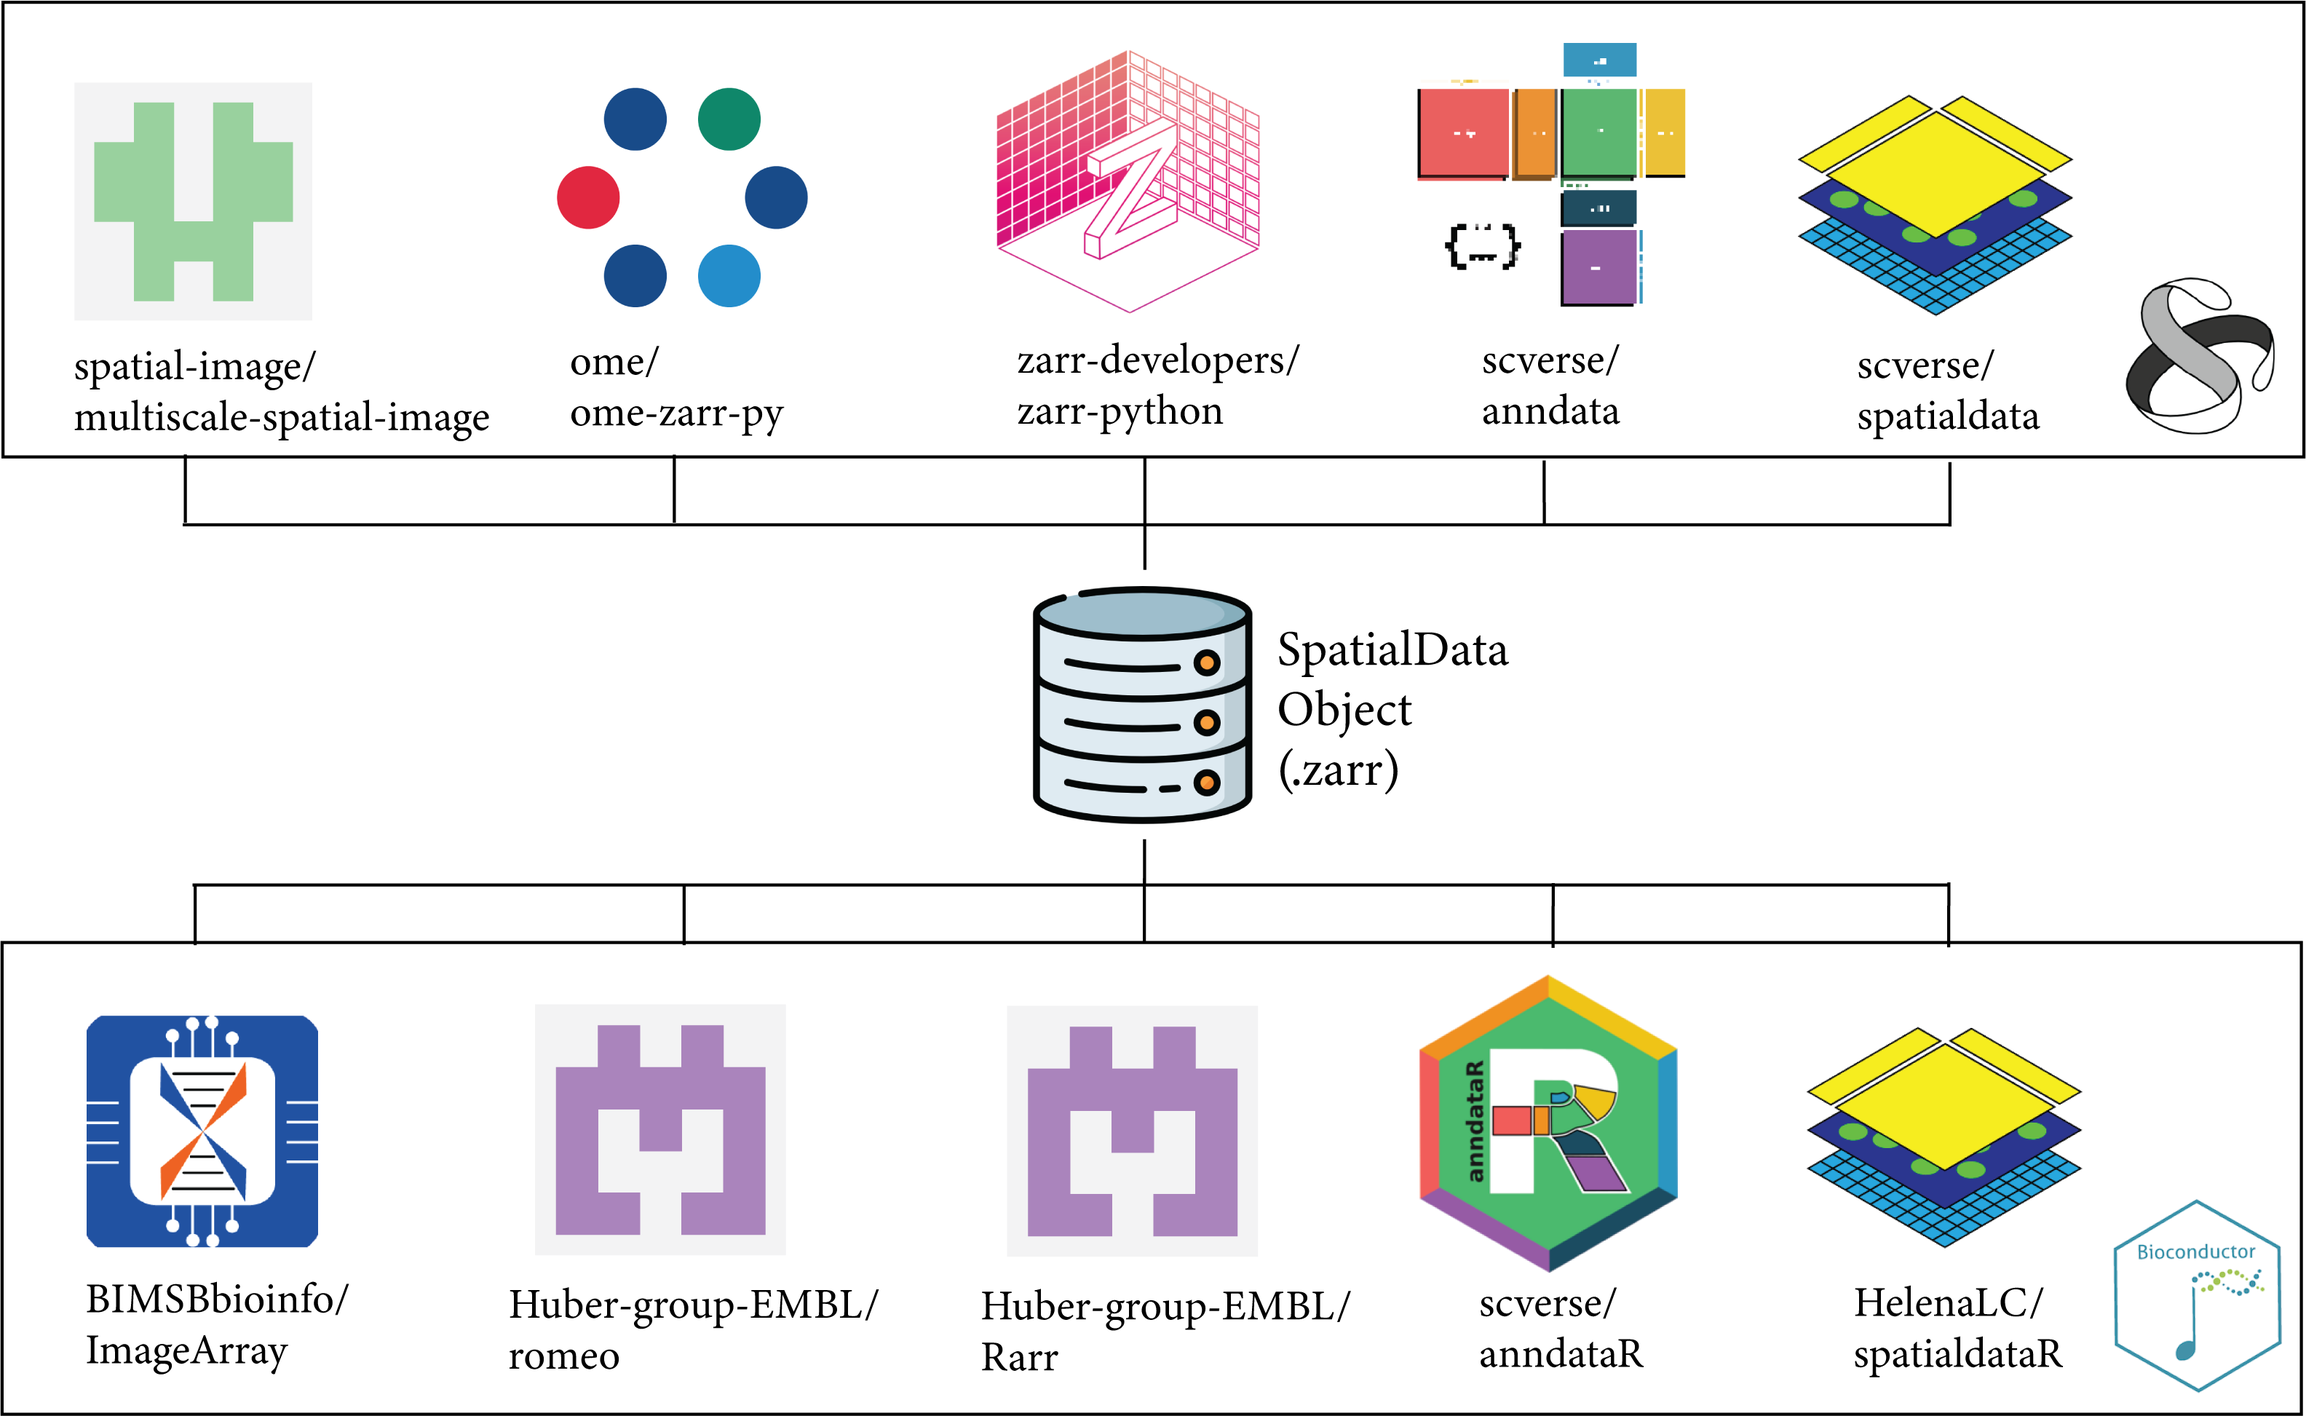
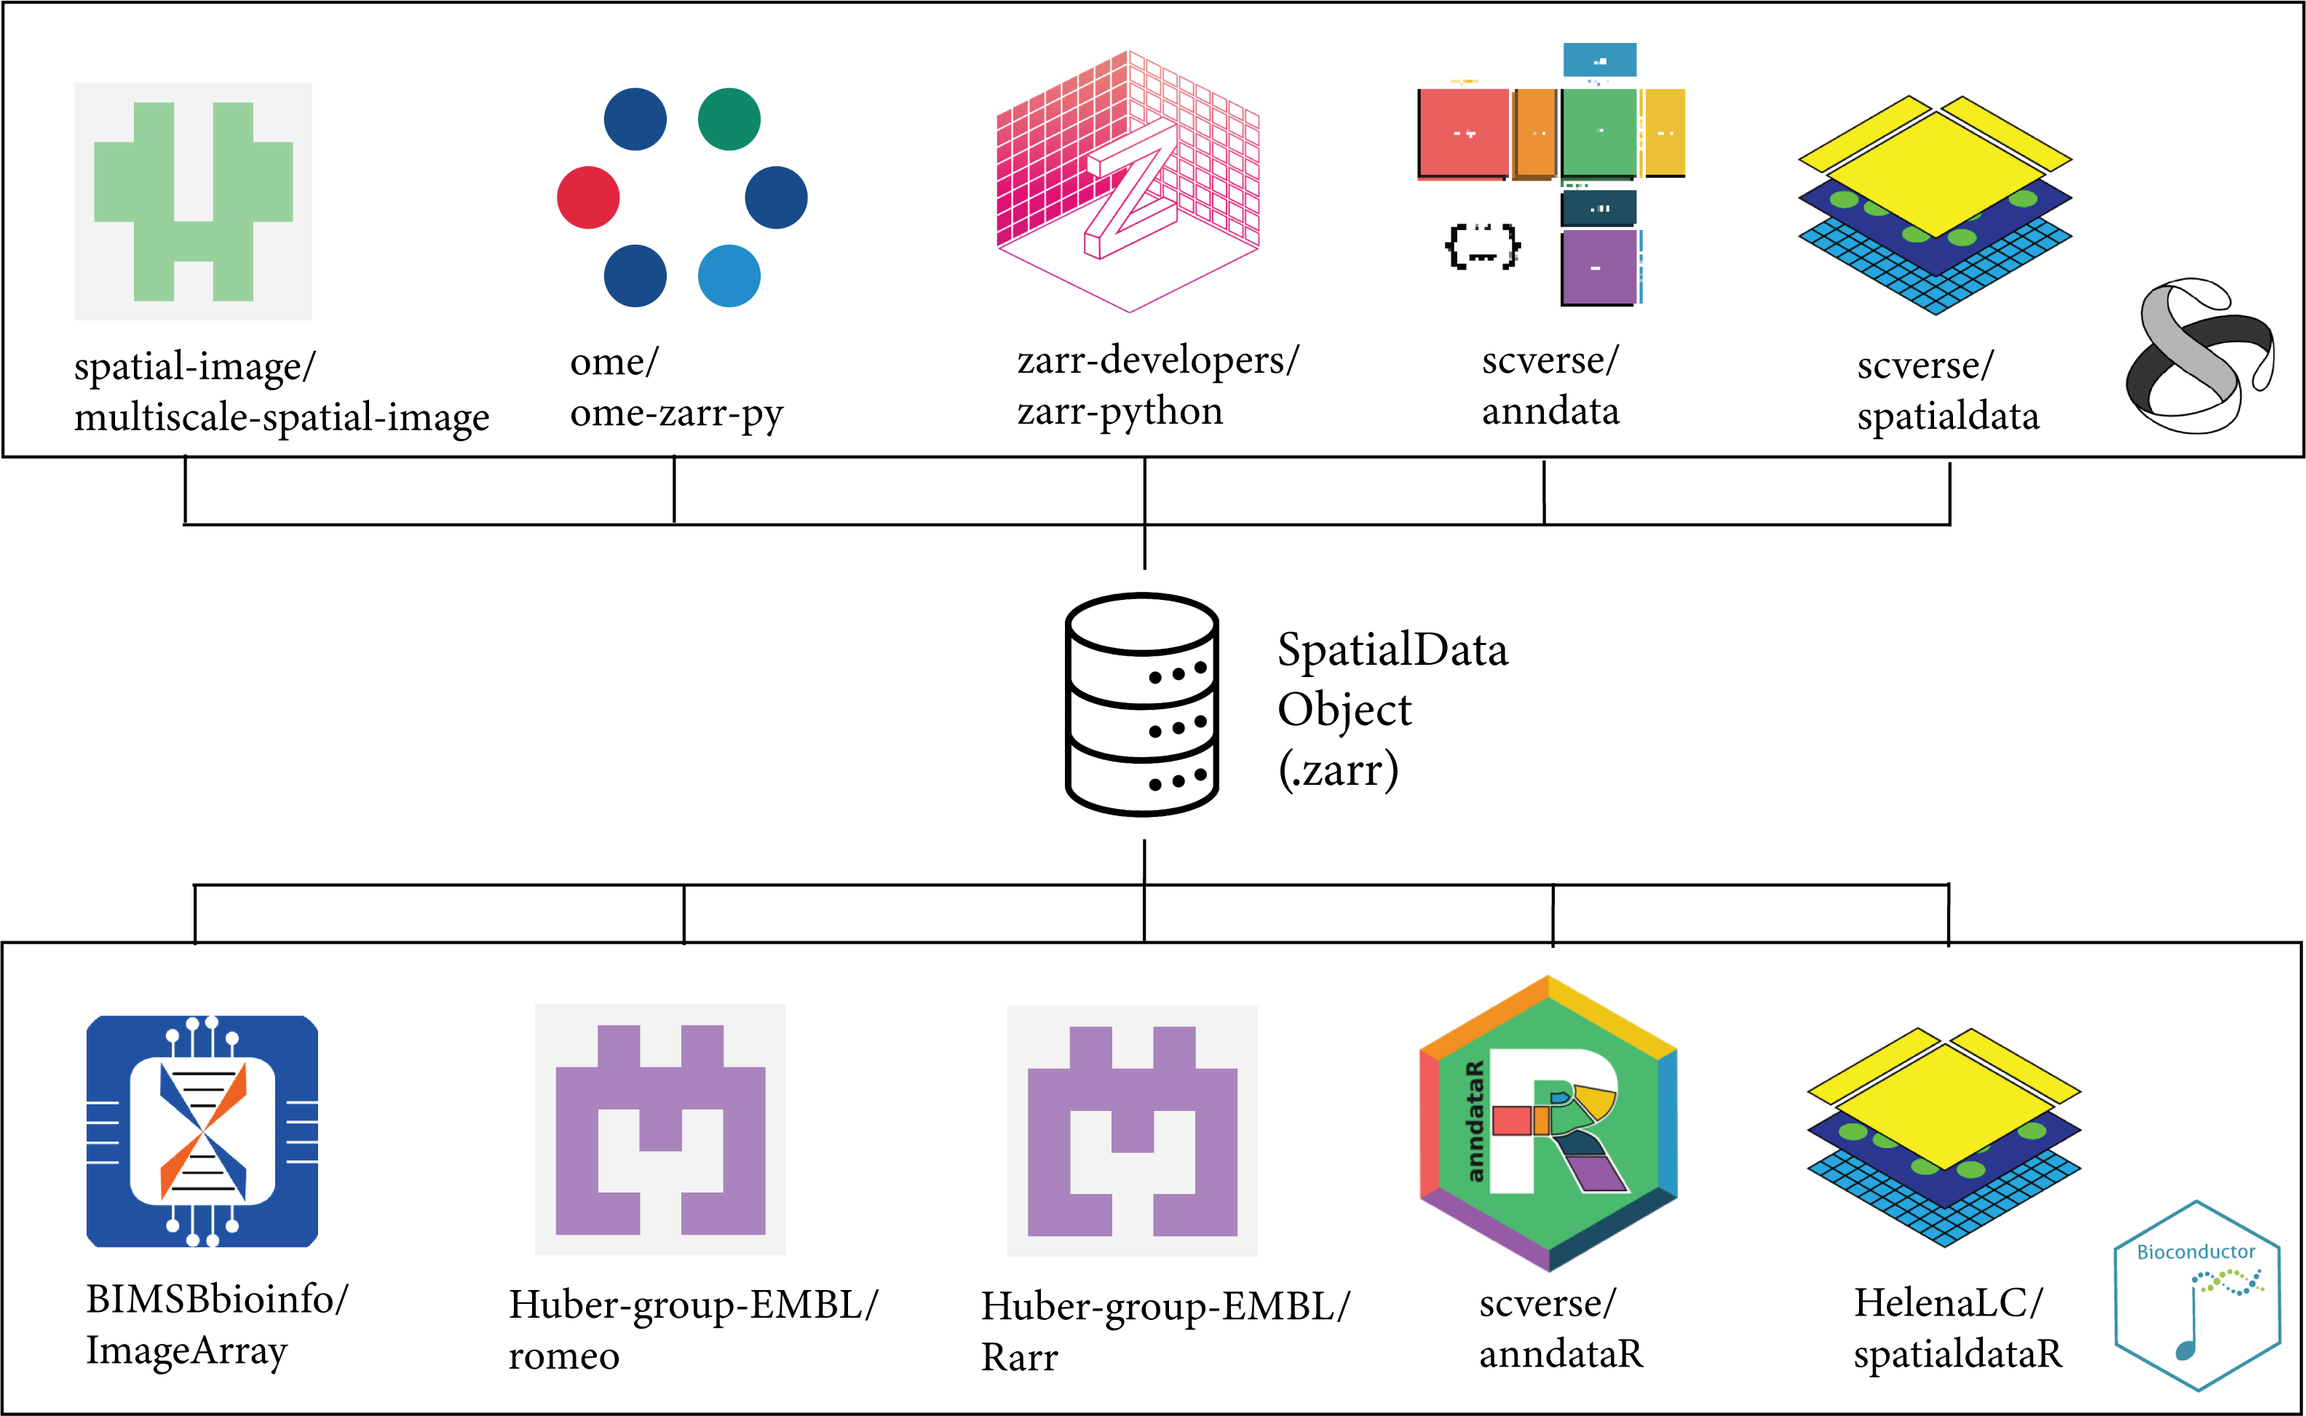
tiny corrections

Changed region(s): [[0.4375, 0.401, 0.5625, 0.5861]]

diff --git a/BioHackArxiv/paper.md b/BioHackArxiv/paper.md
@@ -173,12 +173,12 @@ for more detailed citations for text mining e.g. [@uses_method_in:marconato_spat
 
 # Abstract
 
-This preprint outlines the results of the "2nd SpatialData Hackathon," organized by the SpatialData team and funded by ScienceServe Project Call of Helmholtz Association. The event gathered experts to advance spatial omics through four hackathon tracks: (i) R interoperability, (ii) accessibility and performance of visualization tools, (iii) design modernization for the SpatialData framework, and (vi) file formats and transformations (NGFF).
+This preprint outlines the results of the "2nd SpatialData Hackathon" organized by the SpatialData team and funded by ScienceServe Project Call of Helmholtz Association. The event gathered experts to advance spatial omics through four hackathon tracks: (i) R interoperability, (ii) accessibility and performance of visualization tools, (iii) design modernization for the SpatialData framework, and (iv) file formats and transformations (NGFF).
 Key achievements include extending the SpatialData, Zarr and bioimaging frameworks to R/Bioconductor ecosystem, improving visualization with 2.5D/3D rendering and a chunked multiscale point representation, introducing cloud-based IO and prototypes for lazy file linking and bidirectional element-table relationships, and developing a language-agnostic conformance test suite for OME-NGFF coordinate transformations. The hackathon fostered collaboration, creating infrastructure prototypes and identifying interoperability challenges. Documented on GitHub, these efforts brought together 24 participants from the US and Europe, promoting a FAIR ecosystem of spatial omics and imaging tools.
 
 # Introduction
 
-The "2nd SpatialData Hackathon" was an in-person event organized by the scverse SpatialData and Bioconductor teams, and funded by the Helmholtz Association (ScienceServe Project Call) that brought together expertise from different fields, including methods developers of a variety of tools for bioimaging, single-cell and spatial omics [@Marconato2024-ya]. The purpose is to explore new directions to advance the field of spatial omics [@Marconato2024-ya]. By leveraging multiple programming languages, including Python, R, and JavaScript, the event focuses on four central hackathon tracks:
+The "2nd SpatialData Hackathon" was an in-person event organized by the scverse SpatialData and Bioconductor teams, and funded by the Helmholtz Association (ScienceServe Project Call) that brought together expertise from different fields, including methods developers of a variety of tools for bioimaging, single-cell and spatial omics. The purpose is to explore new directions to advance the field of spatial omics [@Marconato2024-ya]. By leveraging multiple programming languages, including Python, R, and JavaScript, the event focuses on four central hackathon tracks:
 
 * R interoperability
 * Accessibility, maintainability and performance of visualization tools
@@ -202,7 +202,7 @@ All the issues were tracked in a public project board accessible here: [https://
 
 This track introduced numerous utilities to the existing Bioconductor packages to interface with SpatialData objects on disk. These packages are mainly designed to serve as dependencies for the spatialdataR package, an R wrapper of the SpatialData framework [@Marconato2024-ya], that will be submitted to Bioconductor soon.
 
-![Comparison of Zarr, bioimaging and single-cell/spatial omics packages across scverse and Bioconductor ecosystems that interface with SpatialData objects on disk.](figs/r-interop.png)
+![Comparison of Zarr, bioimaging and single-cell/spatial omics packages across scverse and Bioconductor ecosystems that interface with SpatialData objects on disk. *"Database-icon" by Zahra Ibrahem is licensed under CC BY-SA 4.0. To view a copy of this license, visit https://creativecommons.org/licenses/by-sa/4.0/?ref=openverse.*](figs/r-interop.png)
 
 **spatialdataR** \[[HelenaLC/spatialdataR](https://github.com/HelenaLC/spatialdataR)\]: The R package now supports Zarr v3 handling and includes improved show-method of SpatialData Zarr attributes; added various methods to streamline internal operations (e.g., accession of links between layers); added general utilities (e.g., spatial extent, retrieving centroids of elements). A first draft of coordinate space transformations is now complete (with the exception of affine transformations), including scale, rotation, translation, sequence, etc. The package now also supports table-based queries (e.g., using observation metadata), spatial queries (polygonal, bounding box), aggregation of information between layers (e.g., masking points by shapes to obtain a table), etc. Finally, a draft pull request provides write utilities for spatial elements of images, labels, points and shapes in both Zarr v2 and v3, including roundtrip tests for conformance with [scverse/spatialdata](https://github.com/scverse/spatialdata) \[[\#163](https://github.com/HelenaLC/spatialdataR/pull/163)\].
 
@@ -212,7 +212,7 @@ This track introduced numerous utilities to the existing Bioconductor packages t
 
 ![**a)** Left: SpatialData object representation in R. Middle: Spatial plot of cell centroids from Xenium breast cancer tissue section [@Janesick2023-fx] colored by cell type assignment; black = bounding box query. Right: Image cropped to bounding box, including transcripts falling within another bounding box query, colored by in nucleus (pink) or not (hidden). The full-resolution image is ~25x35k pixels, and there are ~42M molecules; the visualization takes about 3 seconds, realizing only a small low-resolution array and a few thousand points into memory. **b)** Schematic of the anndataR roundtrip testing approach. An AnnData creating a specific element to test is generated in Python and saved to disk. This file is then re-read in R and saved to a new file. In the final step, the R output is read by Python and compared to the Python output. The reverse process where data is generated in R is also tested. **c)** Output of the `plot.ome_zarr()` method in the romeo R package. The top image applied a Z-stack operation to merge all channels and the bottom image shows all channels within separate panels. Image from a Breast cancer imaging mass cytometry (IMC) dataset [@Ali2020-hg].](figs/1.png)
 
-**ImageArray** \[[BIMSBbioinfo/ImageArray](https://github.com/BIMSBbioinfo/ImageArray)\]: Extraction of the ImageArray class introduced in the 1st SpatialData Hackathon ([osf.io/preprints/biohackrxiv/8ck3e_v1](https://osf.io/preprints/biohackrxiv/8ck3e_v1)) into a separate package, providing a file-agnostic abstraction layer with support for HDF5, Zarr, OME-TIFF or Bio-Formats [@Linkert2010-mz] based images. Extension of the core dimensions supported in the package to BioFormats/OME-NGFF [@Moore2021-lk] core dimensions (XYZCT). This is done by extracting dimensions from the associated metadata and propagating them to the internal axis metadata of the ImageArray objects \[[\#43](https://github.com/BIMSBbioinfo/ImageArray/pull/43)\]. Introduction of a generic approach for conversion from OME-Zarr to ImageArray via the romeo package \[[\#41](https://github.com/BIMSBbioinfo/ImageArray/pull/41)\].
+**ImageArray** \[[BIMSBbioinfo/ImageArray](https://github.com/BIMSBbioinfo/ImageArray)\]: Extraction of the ImageArray class introduced in the 1st SpatialData Hackathon [@Marconato2024-bh] into a separate package, providing a file-agnostic abstraction layer with support for HDF5, Zarr, OME-TIFF or Bio-Formats [@Linkert2010-mz] based images. Extension of the core dimensions supported in the package to BioFormats/OME-NGFF [@Moore2021-lk] core dimensions (XYZCT). This is done by extracting dimensions from the associated metadata and propagating them to the internal axis metadata of the ImageArray objects \[[\#43](https://github.com/BIMSBbioinfo/ImageArray/pull/43)\]. Introduction of a generic approach for conversion from OME-Zarr to ImageArray via the romeo package \[[\#41](https://github.com/BIMSBbioinfo/ImageArray/pull/41)\].
 
 **SpatialData.validate** \[[SpatialData.validate](https://huber-group-embl.github.io/SpatialData.validate/)\]: Multiscale images in SpatialData use hybrid OME-NGFF like metadata to specify transformations. It is mostly based on OME-NGFF v0.5, but already integrates elements from the unreleased OME-NGFF v0.6. It strictly matches neither of the OME-NGFF versions, and is marked as version: "0.5-dev-spatialdata". We wrote and published a schema for this intermediate hybrid version. This will serve to improve interoperability between different implementations of SpatialData ([scverse/spatialdata](https://github.com/scverse/spatialdata), [HelenaLC/spatialdataR](https://github.com/HelenaLC/spatialdataR), [Taylor-CCB-Group/SpatialData.js](https://github.com/Taylor-CCB-Group/SpatialData.js)).
 
@@ -282,15 +282,15 @@ We evaluated the approaches on 10k and 10M points that are annotated randomly wi
 
 ![Overview of the cloud-based IO architecture for SpatialData, supporting remote object stores via UPath and fsspec.](figs/6.png)
 
-**Exploration of prototypes for the definition of link representation between spatial elements and tables** - Currently, SpatialData uses region\_key and instance\_key to keep track of which element is annotating which elements, but this is unidirectional, and iteration through every table must be done to keep track of all linkage relationships. The proposed solution should achieve two purposes: (i) users can easily track all relationships within SpatialData, and (ii) users are allowed to use one table to annotate multiple spatial elements.
+**Exploration of prototypes for the definition of link representation between spatial elements and tables** - Currently, SpatialData uses region\_key and instance\_key to keep track of which table is annotating which elements, but this is unidirectional, and iteration through every table must be done to keep track of all linkage relationships. The proposed solution should achieve two purposes: (i) users can easily track all relationships within SpatialData, and (ii) users are allowed to use one table to annotate multiple spatial elements, now with the abiility of using the same table row to annotate instances in multiple spatial elements.
 
 Prototype 1 (\#6): For elements or tables that need to be linked, they will need to be indexed by adding an extra column. This can be done by `index_element(sdata, "cell_shapes")`, and then links can be created between spatial element and table with an API that mimics pd.merge and gpd.sjoin: `annotate_by_table(sdata, "cell_shapes", "cell_table", method="sjoin")`. The joining operation will not be evaluated eagerly; the operations and the links will be recorded in `attrs` of SpatialData. This can then be digested by `get_element_mapping(sdata, "cell_shapes", "cell_table")`. See discussion in this issue \[[\#6](https://github.com/scverse/2026_04_hackathon_padua/issues/6)\].
 
 ![Schematic of Prototype 1 for bidirectional element-table linking in SpatialData.](figs/7.png)
 
-Prototype 2: We experimented with DuckDB [@RaasveldtUnknown-mj] to represent cross-element relationships and query the data. We concluded that a representation of relationships, as outlined in the first prototype, remains essential. From this, an on-the-fly DuckDB representation could be created, which could then be used for representing and querying the data in a Structured Query Language (SQL) manner.
+Prototype 2: We experimented with DuckDB [@RaasveldtUnknown-mj] to represent cross-element relationships and query the data. We concluded that a representation of relationships, as outlined in the first prototype, remains essential. From this, an on-the-fly DuckDB representation could be created, which could then be used for creating custom views and querying the data in a Structured Query Language (SQL) manner.
 
-**Exploration of prototypes for a "simple" SpatialData object** - We discussed the scope of "simple" to cover common use cases in spatial biology research. We proposed that there could be an abstraction where a SpatialData object fulfilling some requirements (which can be evaluated on-the-fly) would be considered a "simple" SpatialData object. These could be having only one image, one point, one shape table, and one AnnData table. All elements should be registered under the same coordinate system, and the size of spatial elements should match the size of the AnnData table. The simple SpatialData can be concatenated, but the operation will be evaluated lazily.
+**Exploration of prototypes for a "simple" SpatialData object** - We discussed the scope of "simple" to cover common use cases in spatial biology research. We proposed that there could be an abstraction where a SpatialData object fulfilling some requirements (which can be evaluated on-the-fly) would be considered a "simple" SpatialData object. These could be having only one image, one points element, one shape table, and one AnnData table. All elements should be registered under the same coordinate system, and the size of spatial elements should match the size of the AnnData table. The simple SpatialData can be concatenated, but the operation will be evaluated lazily.
 
 **Exploration of prototypes for HierarchicalSpatialData** - OME-Zarr [@Moore2023-ix] stores, in principle, can represent arbitrarily nested objects, but this is not supported by SpatialData, which restricts the store to a two-level hierarchy. We discussed the implications of relaxing these constraints, structuring the design discussion on top of an experiment developed during the scverse proteomics hackathon (Berlin, 2026) ([https://github.com/scverse/2026_03_hackathon_proteomics](https://github.com/scverse/2026_03_hackathon_proteomics)). Supporting hierarchical objects would simplify the data collection process (as SpatialData objects would be created individually) while allowing them to be treated as a common parent object. Metadata such as coordinate transformations and table-element linking would be situated at different levels: sample-level metadata would remain in the child objects, while cross-sample/global metadata would be stored higher in the hierarchy. Consequently, a more general/centralized and discoverable support for metadata would be necessary (as discussed in the other prototype). The new hierarchical design pairs well with the "simple" SpatialData concept, making it easy to create simple datasets and then bundle them into a global collection for joint exploration.
 
